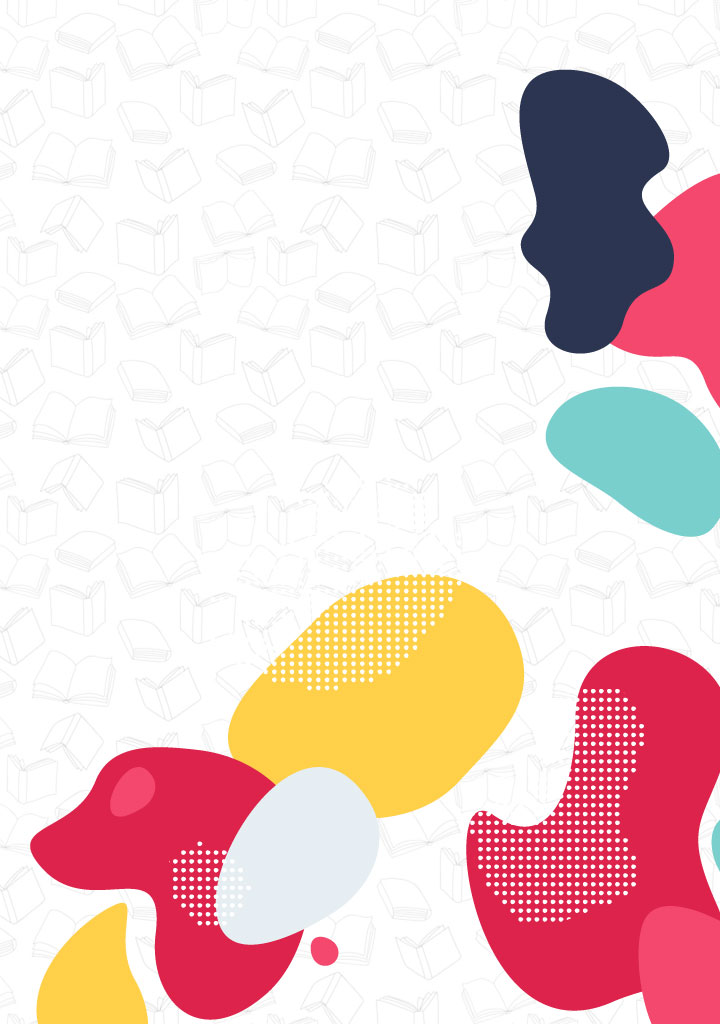
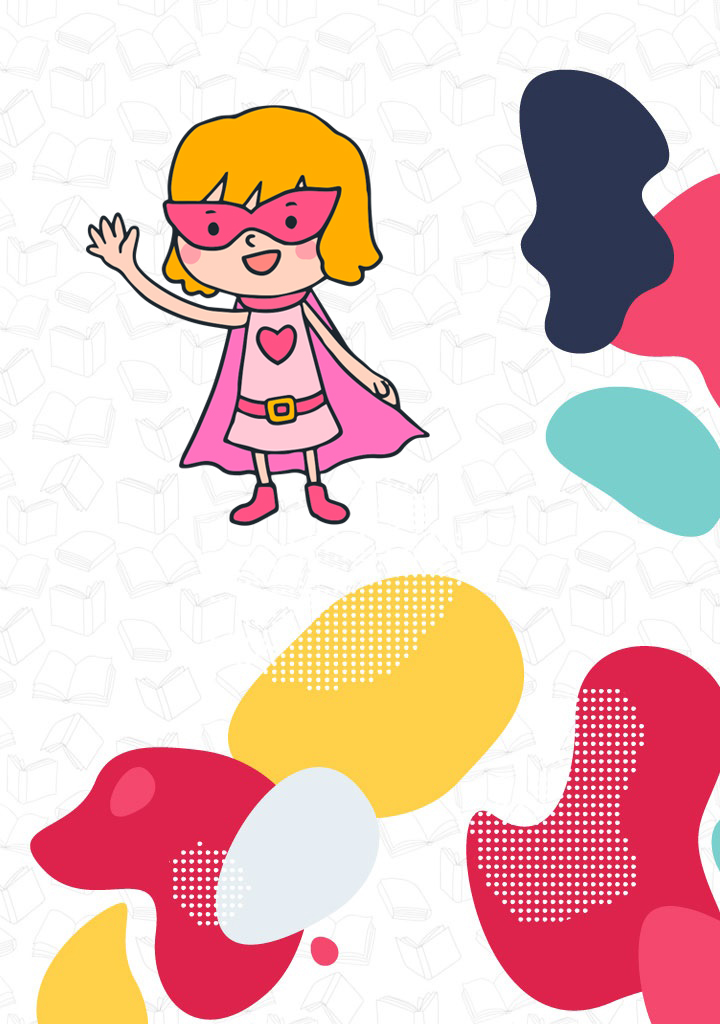
Imagen login

diff --git a/FrontEnd/SuperReaders/src/app/components/login/login.component.html b/FrontEnd/SuperReaders/src/app/components/login/login.component.html
@@ -1,7 +1,7 @@
 <div class="container-fluid h-100">
     <div class="row">
-        <div class="col-sm-4 col-md-4 col-lg-4 col-xl-4 img-left pl-0 pr-0" *ngIf="!isMovil">
-            <img src="../../../assets/ReadersPanelRight.png" alt="" class="img-fluid height-img">
+        <div class="col-sm-4 col-md-4 col-lg-4 col-xl-4 left pl-0 pr-0" *ngIf="!isMovil">
+            <img src="../../../assets/ReadersPanelLeft.png" alt="" class="img-fluid height-img">
         </div>
         <div class="pl-0 pr-0 height-img" [ngClass]="this.isMovil? 'col-12':'col-sm-4 col-md-4 col-lg-4 col-xl-4'">
             <div class="row h-100 justify-content-center img-center">

diff --git a/FrontEnd/SuperReaders/src/app/components/login/login.component.css b/FrontEnd/SuperReaders/src/app/components/login/login.component.css
@@ -18,6 +18,3 @@
 .height-img{
     height: 100vh;
 }
-.img-left{
-    transform: rotate(180deg);
-}
